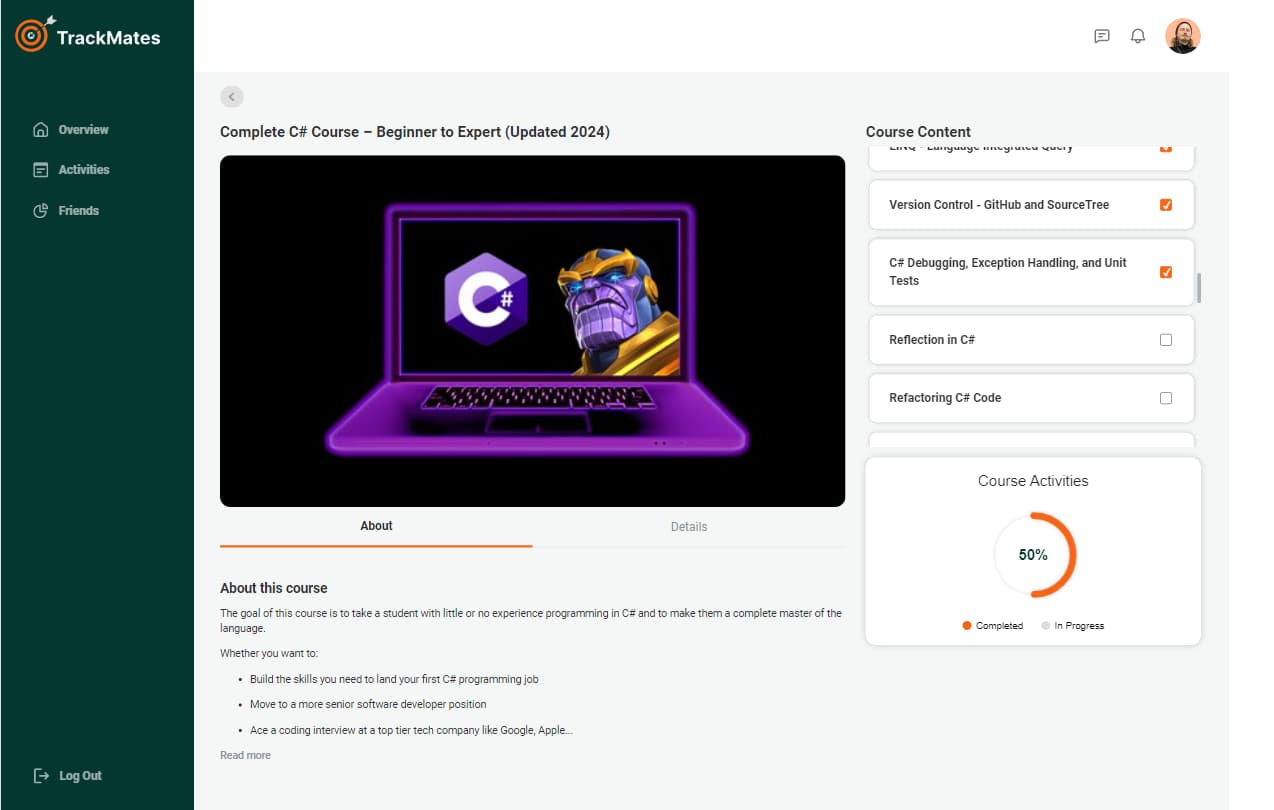
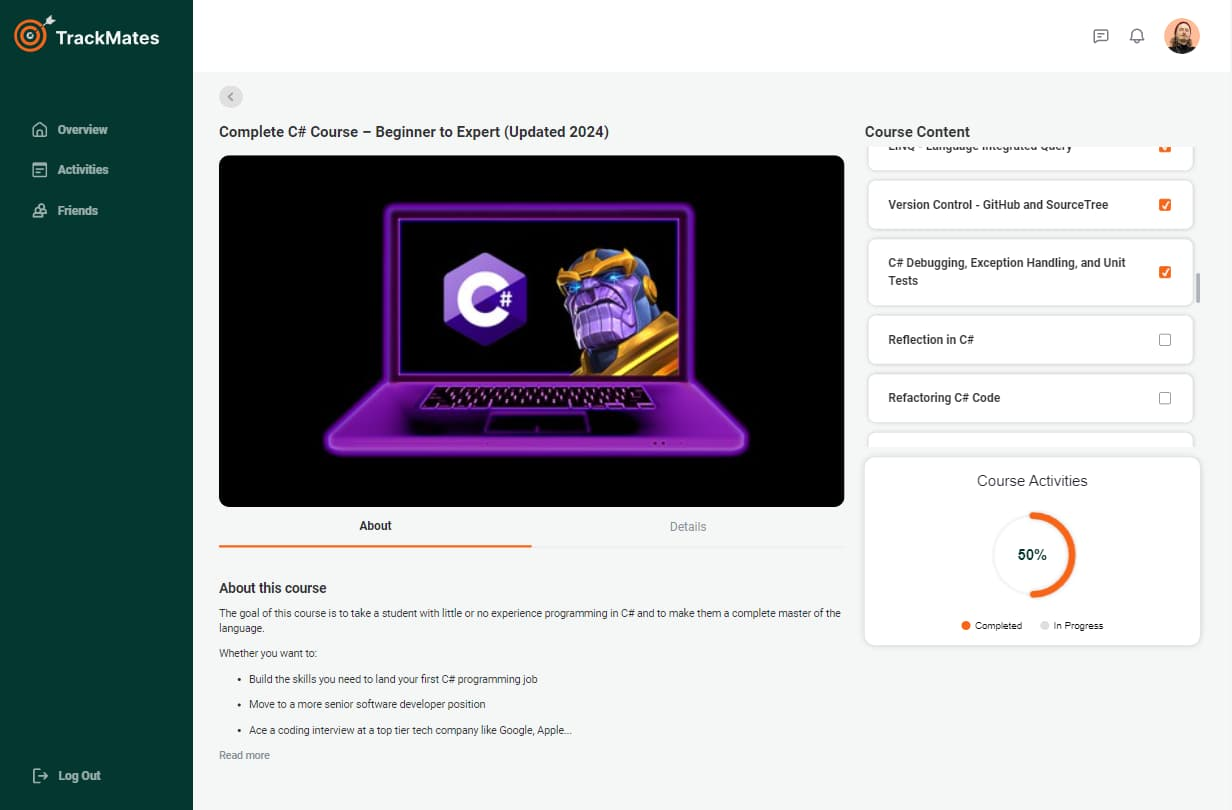
feat(frontend): new image tm-672

diff --git a/apps/frontend/vite.config.ts b/apps/frontend/vite.config.ts
@@ -46,24 +46,24 @@ const config = ({ mode }: ConfigEnv): ReturnType<typeof defineConfig> => {
 			screenshots: [
 				{
 					form_factor: "wide",
-					sizes: "1274x810",
+					sizes: "1232x810",
 					src: "/assets/screen-desk-first.jpg",
 					type: "image/jpg",
 				},
 				{
 					form_factor: "wide",
-					sizes: "1274x810",
+					sizes: "1232x810",
 					src: "/assets/screen-desk-second.jpg",
 					type: "image/jpg",
 				},
 				{
 					form_factor: "wide",
-					sizes: "1274x810",
+					sizes: "1232x810",
 					src: "/assets/screen-desk-third.jpg",
 					type: "image/jpg",
 				},
 				{
-					sizes: "768x488",
+					sizes: "768x504",
 					src: "/assets/screen-desk-fourth.jpg",
 					type: "image/jpg",
 				},
